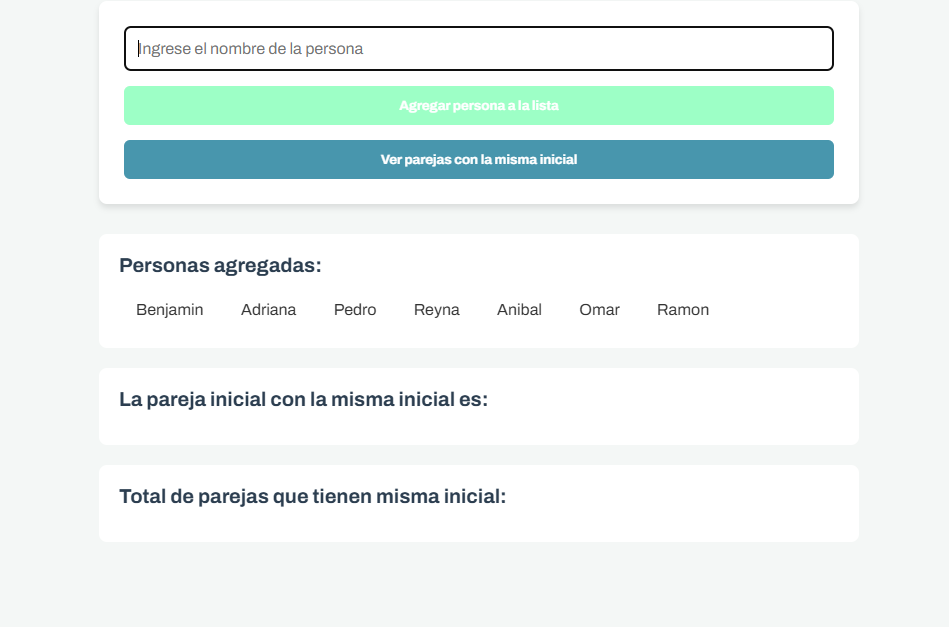
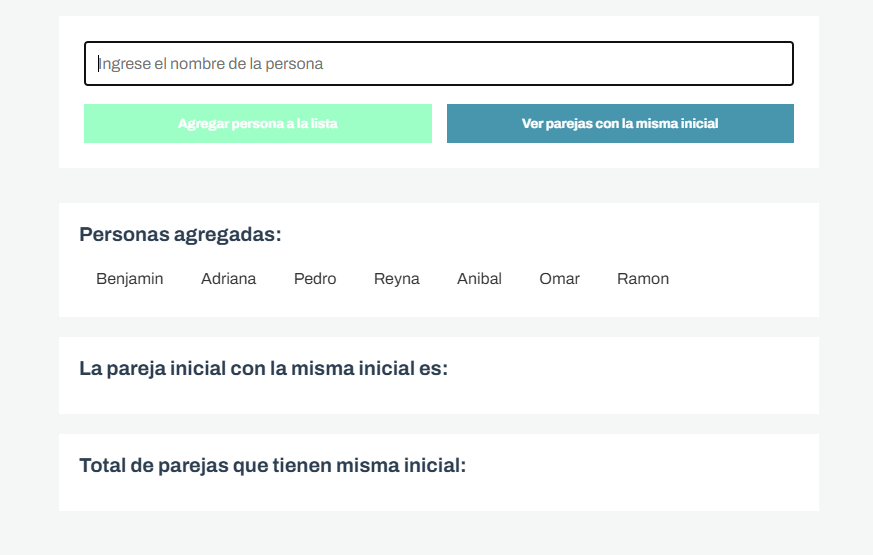
Añadido notas de clase 6 - recursión y backtracing, y mini cambios de estilos css en botones en práctica 4 , falta realizar el ejercicio de practica 6

diff --git a/04-algoritmo-de-dos-punteros/practica-leccion/style.css b/04-algoritmo-de-dos-punteros/practica-leccion/style.css
@@ -23,41 +23,44 @@ h2 {
 #formulario {
     background: #fff;
     padding: 25px;
-    border-radius: 8px;
-    box-shadow: 0 4px 6px rgba(0,0,0,0.1);
-    margin-bottom: 30px;
+    margin-bottom: 35px;
     display: flex;
     flex-direction: column;
-    gap: 15px;
+    gap: 17.5px;
 }
 
 input[type="text"] {
     padding: 12px;
     border: 2px solid #ddd;
-    border-radius: 6px;
     font-size: 1rem;
-    transition: border-color 0.3s;
 }
 
 
-/* btones */
+/* Botones */
+#botones{
+    display:flex;
+    gap: 15px;
+}
+
 button {
     padding: 12px;
     border: none;
-    border-radius: 6px;
     cursor: pointer;
     font-weight: bold;
+
 }
 
 #btn-agregar {
     background-color: #9dffc6;
     color: white;
+    width: 50%;
 }
 
 
 #btn-enviar {
     background-color: #4896ad;
     color: white;
+    width: 50%;
 }
 
 
@@ -65,7 +68,6 @@ button {
 #lista-personas, section {
     background: #fff;
     padding: 20px;
-    border-radius: 8px;
     margin-bottom: 20px;
 }
 

diff --git a/06-recursion-y-backtracing/notas-clase/bintree.js b/06-recursion-y-backtracing/notas-clase/bintree.js
@@ -1,0 +1,40 @@
+
+// arbol binario seria en js algo como un objeto literal
+
+// Balanced binary tree
+let tree = {
+    root: {
+        data: 1,
+        left: {
+            data: 2,
+            left: {
+                data: 4,
+                left: null,
+                right: null
+            },
+    },         right: {
+            data: 3,
+            left: null,
+            right: null
+        }
+     }
+
+}
+
+function binarysearch(tree, value) {
+    if (tree === null) {
+        return false;
+    }
+    if (tree.data === value) {
+        return true;
+    }
+    if (value < tree.data) {
+        return binarysearch(tree.left, value);
+    } else {
+        return binarysearch(tree.right, value);
+    }
+    
+}
+
+let result = binarysearch(tree.root, 3);
+console.log(result);

diff --git a/04-algoritmo-de-dos-punteros/practica-leccion/index.html b/04-algoritmo-de-dos-punteros/practica-leccion/index.html
@@ -15,9 +15,11 @@
 
         <input type="text" name="" id="input-nombre-persona" placeholder="Ingrese el nombre de la persona">
         
-        <button id="btn-agregar">Agregar persona a la lista</button>
+        <div id="botones">
+            <button id="btn-agregar">Agregar persona a la lista</button>
 
-        <button type="submit" id="btn-enviar">Ver parejas con la misma inicial </button>
+            <button type="submit" id="btn-enviar">Ver parejas con la misma inicial </button>
+        </div>
     </form>
 
     <div id="lista-personas">

diff --git a/06-recursion-y-backtracing/notas-clase/recursion_countdown.js b/06-recursion-y-backtracing/notas-clase/recursion_countdown.js
@@ -1,0 +1,21 @@
+
+function countdown(num){
+    console.log(num);
+    
+    // caso base, lo que rompe el ciclo por asi decirlo, no suele contener parte recursiva, aunque se puede tener varios casos base
+    if(num == 0){
+
+        return ; // En este caso, se puede dejar el return;
+    }
+    
+    else{
+        return countdown(num - 1); // num--
+    }
+
+
+
+}
+
+
+
+countdown(10)

diff --git a/06-recursion-y-backtracing/notas-clase/recursion.js b/06-recursion-y-backtracing/notas-clase/recursion.js
@@ -1,0 +1,20 @@
+
+// una función que se llama a si misma
+function fn(numero){ // 2: llega n=1
+    console.log(numero);
+    
+    if(numero> 5){ 
+        return numero;
+    }
+    // Si no es mayor que 5 el n, ocurre recursión
+    else{
+        // La primera vez será fn (0+1 o sea 1)
+        return fn(numero+1)
+
+    
+    }
+
+}
+
+
+fn(0)

diff --git a/06-recursion-y-backtracing/practica-leccion/index.html b/06-recursion-y-backtracing/practica-leccion/index.html
@@ -1,0 +1,13 @@
+<!DOCTYPE html>
+<html lang="en">
+<head>
+    <meta charset="UTF-8">
+    <meta name="viewport" content="width=device-width, initial-scale=1.0">
+    <title>Document</title>
+    <link rel="stylesheet" href="style.css">
+</head>
+<body>
+    
+    <script src=""></script>
+</body>
+</html>

diff --git a/06-recursion-y-backtracing/notas-clase/fibonacci.js b/06-recursion-y-backtracing/notas-clase/fibonacci.js
@@ -1,0 +1,20 @@
+
+
+function fibo(n) {
+    // fibonacci tiene 2 casos base:
+    if(n==0){
+        return 0;
+    }
+    if(n==1){
+        return 1;
+    }
+
+    // Fuera de eso, si no es ninguno, regresamos:
+    return fibo(n-1) + fibo(n- 2)
+
+
+}
+
+let result = fibo(2);
+
+console.log(result);

diff --git a/05-sliding-window/practica-leccion/script/app.js b/05-sliding-window/practica-leccion/script/app.js
@@ -26,3 +26,10 @@ const text =
   "JavaScript es un lenguaje de programación increíble para aprender.";
 // TODO: Llama a la función y muestra el resultado
 console.log(findLongestWord(text)); // Resultado esperado: "programación"
+
+
+function palabraMasLargaSlidingWindow(texto){
+
+  
+
+}

diff --git a/06-recursion-y-backtracing/notas-clase/factorial.js b/06-recursion-y-backtracing/notas-clase/factorial.js
@@ -1,0 +1,15 @@
+
+function factorial(x){
+    // debugger; // útil para identificar paso por paso que ocurre en lugar de user console.log
+
+    if(x === 0){
+        return 1;
+    }
+    else{
+        return x * factorial(x-1)
+    }
+
+}
+
+let total = factorial(3);
+console.log(total);

diff --git a/06-recursion-y-backtracing/README.md b/06-recursion-y-backtracing/README.md
@@ -1,0 +1,47 @@
+
+# Lección  - : 
+
+
+
+## Archivos del repositorio
+
+- **./index.html**: Archivo HTML del proyecto, conectando el script.js y el style.css
+
+- **img/Captura1.png**: Captura de pantalla inicial
+
+
+
+## Aprendizajes:
+
+-
+
+
+## Evidencia visual
+
+A continuación se muestra una captura de pantalla del código funcionando en la consola del navegador:
+
+![Captura inicial del programa](./img/Captura1.png)
+
+
+
+## Ejemplo de uso
+
+Abra el archivo 
+```./index.html```
+en su navegador y revise el sitio web para probar la funcionalidad del mismo
+
+También puede mirar el código de JavaScript abriendo el archivo
+```./script.js```
+dentro de su editor de código preferido o dentro de Github.
+
+## Despliegue
+
+Se desplegó en Github Pages a partir de este repositorio, puedes ver la página a través del siguiente link:
+
+
+
+## Como conclusión personal:
+
+
+## Fuentes:
+
